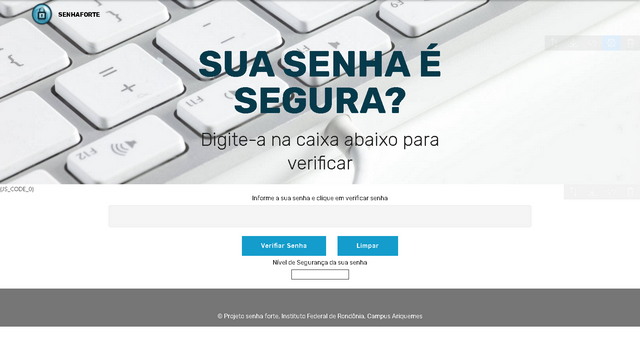
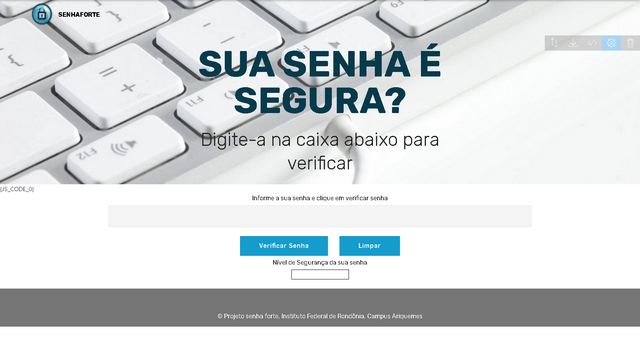
alterado design do formulário

Changed region(s): [[0.8438, 0.0855, 1.0, 0.1425], [0.375, 0.6838, 0.5312, 0.7407], [0.5625, 0.6838, 0.625, 0.7123]]

diff --git a/index.html b/index.html
@@ -54,7 +54,7 @@
     </nav>
 </section>
 
-<section class="engine"><a href="https://mobirise.me/b">how to create a site</a></section><section class="mbr-section content5 cid-qQrOMwqspu mbr-parallax-background" id="content5-7">
+<section class="engine"><a href="https://mobirise.me/i">free site creation software</a></section><section class="mbr-section content5 cid-qQrOMwqspu mbr-parallax-background" id="content5-7">
 
     
 
@@ -89,6 +89,7 @@
                 val.length >= tamanho && val.search(/[a-z]/) != -1 && val.search(/[A-Z]/) != -1 && val.search(/[@!#$%&*+=?|-]/) ||
                 val.length >= tamanho && val.search(/[a-z]/) != -1 && val.search(/[@!#$%&*+=?|-]/) != -1 && val.search(/[0-9]/) ||
                 val.length >= tamanho && val.search(/[@!#$%&*+=?|-]/) != -1 && val.search(/[A-Z]/) != -1 && val.search(/[0-9]/)) {
+                var forca = "Forte";
                 document.getElementById('mensagem').innerHTML = "Parabéns, sua senha é forte";
                 document.getElementById('d_baixa').style.background = 'green';
                 document.getElementById('d_media').style.background = 'green';
@@ -101,12 +102,14 @@
                     val.length >= tamanho && val.search(/[A-Z]/) != -1 && val.search(/[@!#$%&*+=?|-]/) != -1 ||
                     val.length >= tamanho && val.search(/[0-9]/) != -1 && val.search(/[@!#$%&*+=?|-]/) != -1) {
 
+                    var forca = "Media";
                     document.getElementById('mensagem').innerHTML = "Parabéns, sua senha é média";
                     document.getElementById('d_baixa').style.background = 'yellow';
                     document.getElementById('d_media').style.background = 'yellow';
                     document.getElementById('d_alta').style.background = 'white';
                 } else {
                     if (val.length >= tamanho) {
+                        var forca = "Fraca";
                         document.getElementById('mensagem').innerHTML = "Desculpa, sua senha é fraca";
                         document.getElementById('d_baixa').style.background = 'red';
                         document.getElementById('d_media').style.background = 'white';
@@ -116,10 +119,17 @@
             }
             if (localStorage.Quantidade) {
  			   localStorage.Quantidade = Number(localStorage.Quantidade) + 1;
-               localStorage.setItem(val, val);
+                if (forca == "Fraca"){localStorage.Fraca = Number(localStorage.Fraca) + 1;}
+                if (forca == "Media"){localStorage.Media = Number(localStorage.Media) + 1;}
+                if (forca == "Forte"){localStorage.Forte = Number(localStorage.Forte) + 1;}
 			} else {
     			localStorage.Quantidade = 1;
-                localStorage.setItem(val, val);
+                localStorage.Fraca = 0;
+                localStorage.Media = 0;
+                localStorage.Forte = 0;
+                if (forca == "Fraca"){localStorage.Fraca = Number(localStorage.Fraca) + 1;}
+                if (forca == "Media"){localStorage.Media = Number(localStorage.Media) + 1;}
+                if (forca == "Forte"){localStorage.Forte = Number(localStorage.Forte) + 1;}
 			}
        }
     </script>
